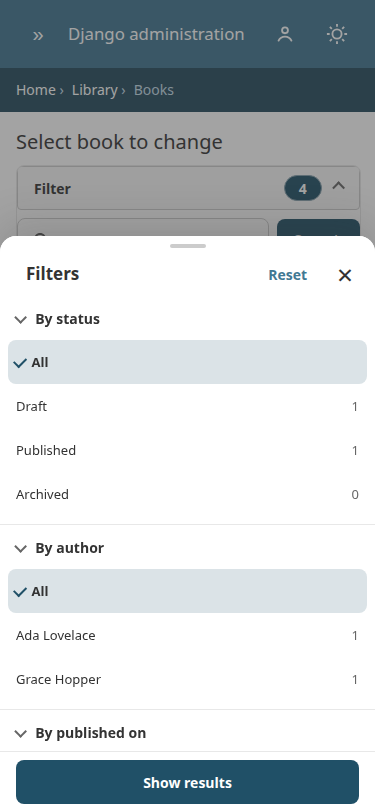
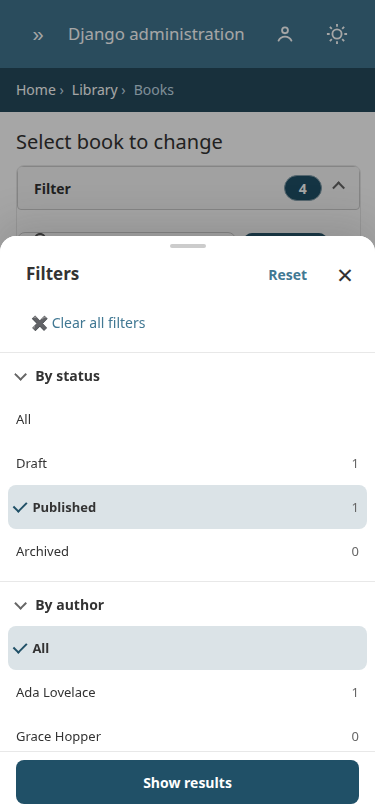
Darken the filter scrim and reshoot the hero for 0.2.7.
The sheet overlay stays black in light and dark. Selected rows keep an accent check and tint that stay readable in dark mode. The hero change form starts at the title, and the filter phone shows Published selected.

diff --git a/src/admin_mobile/static/admin_mobile/css/admin_mobile_features.css b/src/admin_mobile/static/admin_mobile/css/admin_mobile_features.css
@@ -842,7 +842,18 @@ html[data-theme="auto"].admin-mobile {
         position: fixed;
         inset: 0;
         z-index: 79;
-        background: color-mix(in srgb, var(--body-fg) 45%, transparent);
+        /* A black scrim. body-fg is light in dark mode and would wash the page. */
+        background: color-mix(in srgb, black 35%, transparent);
+    }
+
+    html[data-theme="dark"].admin-mobile-filter-sheet .admin-mobile-filter-backdrop {
+        background: color-mix(in srgb, black 50%, transparent);
+    }
+
+    @media (prefers-color-scheme: dark) {
+        html[data-theme="auto"].admin-mobile-filter-sheet .admin-mobile-filter-backdrop {
+            background: color-mix(in srgb, black 50%, transparent);
+        }
     }
 
     html.admin-mobile-filter-sheet .admin-mobile-filter-backdrop[hidden] {
@@ -1073,12 +1084,34 @@ html[data-theme="auto"].admin-mobile {
     html.admin-mobile-filter-sheet #changelist-filter li.selected a::before {
         content: "";
         flex: 0 0 auto;
-        width: 0.35rem;
-        height: 0.65rem;
+        width: 0.4rem;
+        height: 0.7rem;
         margin-top: -2px;
         border-right: 2px solid var(--button-bg);
         border-bottom: 2px solid var(--button-bg);
         transform: rotate(45deg);
+    }
+
+    html[data-theme="dark"].admin-mobile-filter-sheet #changelist-filter li.selected a {
+        background: color-mix(in srgb, var(--button-bg) 46%, var(--body-bg));
+        color: var(--body-fg);
+    }
+
+    html[data-theme="dark"].admin-mobile-filter-sheet #changelist-filter li.selected a::before {
+        border-right: 3px solid color-mix(in srgb, var(--button-fg) 58%, var(--button-bg));
+        border-bottom: 3px solid color-mix(in srgb, var(--button-fg) 58%, var(--button-bg));
+    }
+
+    @media (prefers-color-scheme: dark) {
+        html[data-theme="auto"].admin-mobile-filter-sheet #changelist-filter li.selected a {
+            background: color-mix(in srgb, var(--button-bg) 46%, var(--body-bg));
+            color: var(--body-fg);
+        }
+
+        html[data-theme="auto"].admin-mobile-filter-sheet #changelist-filter li.selected a::before {
+            border-right: 3px solid color-mix(in srgb, var(--button-fg) 58%, var(--button-bg));
+            border-bottom: 3px solid color-mix(in srgb, var(--button-fg) 58%, var(--button-bg));
+        }
     }
 
     html.admin-mobile-filter-sheet #changelist-filter .admin-mobile-filter-choice {

diff --git a/tests/test_playwright.py b/tests/test_playwright.py
@@ -2,6 +2,7 @@
 
 from __future__ import annotations
 
+import re
 from datetime import date, datetime, time
 from decimal import Decimal
 from pathlib import Path
@@ -240,6 +241,38 @@ def test_admin_screenshots_at_phone_width(
             "input[type='search'], input.range-filter, input[type='date']"
         ).first
         expect(date_input).to_be_visible()
+    page.locator("#changelist-filter").get_by_role(
+        "link", name=re.compile(r"^Published")
+    ).click()
+    expect(page.locator("#changelist-filter")).to_be_hidden()
+    page.locator("#admin-mobile-filter-toggle").click()
+    selected = page.locator("#changelist-filter li.selected").filter(
+        has_text="Published"
+    )
+    expect(selected).to_be_visible()
+    _theme(page, "light")
+    light_scrim = page.locator(".admin-mobile-filter-backdrop").evaluate(
+        "element => getComputedStyle(element).backgroundColor"
+    )
+    assert _scrim_is_dark(light_scrim, 0.35)
+    _theme(page, "dark")
+    dark_scrim = page.locator(".admin-mobile-filter-backdrop").evaluate(
+        "element => getComputedStyle(element).backgroundColor"
+    )
+    assert _scrim_is_dark(dark_scrim, 0.5)
+    colors = selected.locator("a").evaluate(
+        """element => {
+          const row = getComputedStyle(element);
+          const mark = getComputedStyle(element, "::before");
+          return {
+            bg: row.backgroundColor,
+            fg: row.color,
+            mark: mark.borderRightColor,
+          };
+        }"""
+    )
+    assert _contrast(colors["fg"], colors["bg"]) >= 4.5
+    assert _contrast(colors["mark"], colors["bg"]) >= 3
     _pair(page, "filters-375.png")
     page.locator(".admin-mobile-filter-apply").click()
     expect(sheet).to_be_hidden()
@@ -285,6 +318,19 @@ def test_admin_screenshots_at_phone_width(
     page.locator(".inline-deletelink").last.click()
     expect(title_inputs).to_have_count(before_add)
 
+    page.evaluate(
+        """() => {
+          window.scrollTo(0, 0);
+          document.documentElement.scrollTop = 0;
+          document.body.scrollTop = 0;
+          const content = document.getElementById("content");
+          if (content) {
+            content.scrollTop = 0;
+          }
+        }"""
+    )
+    expect(page.locator("#id_title")).to_be_in_viewport()
+    expect(page.locator("form .submit-row").last).to_be_in_viewport()
     _pair(page, "change-form-375.png")
 
     page.goto(f"{base_url}{catalog['list']}")
@@ -317,6 +363,49 @@ def test_admin_screenshots_at_phone_width(
         }"""
     )
     _pair(page, "stock-changelist-375.png")
+
+
+def _channel(value: float) -> float:
+    scaled = value / 255
+    if scaled <= 0.04045:
+        return scaled / 12.92
+    return ((scaled + 0.055) / 1.055) ** 2.4
+
+
+def _rgba(css: str) -> tuple[float, float, float, float]:
+    nums = [float(part) for part in re.findall(r"[\d.]+", css)]
+    if len(nums) == 3:
+        nums.append(1.0)
+    red, green, blue, alpha = nums[:4]
+    # Chromium reports color-mix() as color(srgb) with 0-1 components.
+    if "color(" in css and max(red, green, blue) <= 1:
+        red *= 255
+        green *= 255
+        blue *= 255
+    return red, green, blue, alpha
+
+
+def _luminance(css: str) -> float:
+    red, green, blue, _alpha = _rgba(css)
+    return (
+        0.2126 * _channel(red) + 0.7152 * _channel(green) + 0.0722 * _channel(blue)
+    )
+
+
+def _contrast(foreground: str, background: str) -> float:
+    lighter = max(_luminance(foreground), _luminance(background))
+    darker = min(_luminance(foreground), _luminance(background))
+    return (lighter + 0.05) / (darker + 0.05)
+
+
+def _scrim_is_dark(css: str, alpha: float) -> bool:
+    red, green, blue, found = _rgba(css)
+    return (
+        red <= 16
+        and green <= 16
+        and blue <= 16
+        and abs(found - alpha) < 0.02
+    )
 
 
 def _shot(page: Page, name: str) -> None:

diff --git a/CHANGELOG.md b/CHANGELOG.md
@@ -2,7 +2,7 @@
 
 ## 0.2.7
 
-- The phone filter panel is a bottom sheet: dimmed backdrop, 16px top corners, grab handle, sticky Filters / Reset / Close header, chevrons, 44px options with an accent check and right-aligned counts, and a sticky Show results button.
+- The phone filter panel is a bottom sheet: dimmed backdrop, 16px top corners, grab handle, sticky Filters / Reset / Close header, chevrons, 44px options with an accent check and right-aligned counts, and a sticky Show results button. The scrim darkens the page in light and dark. A selected row keeps a visible accent tint and check in dark mode.
 - Long filter lists get a search field. Date and range inputs stay in the sheet. With JavaScript off, the filters stay inline.
 
 ## 0.2.6
